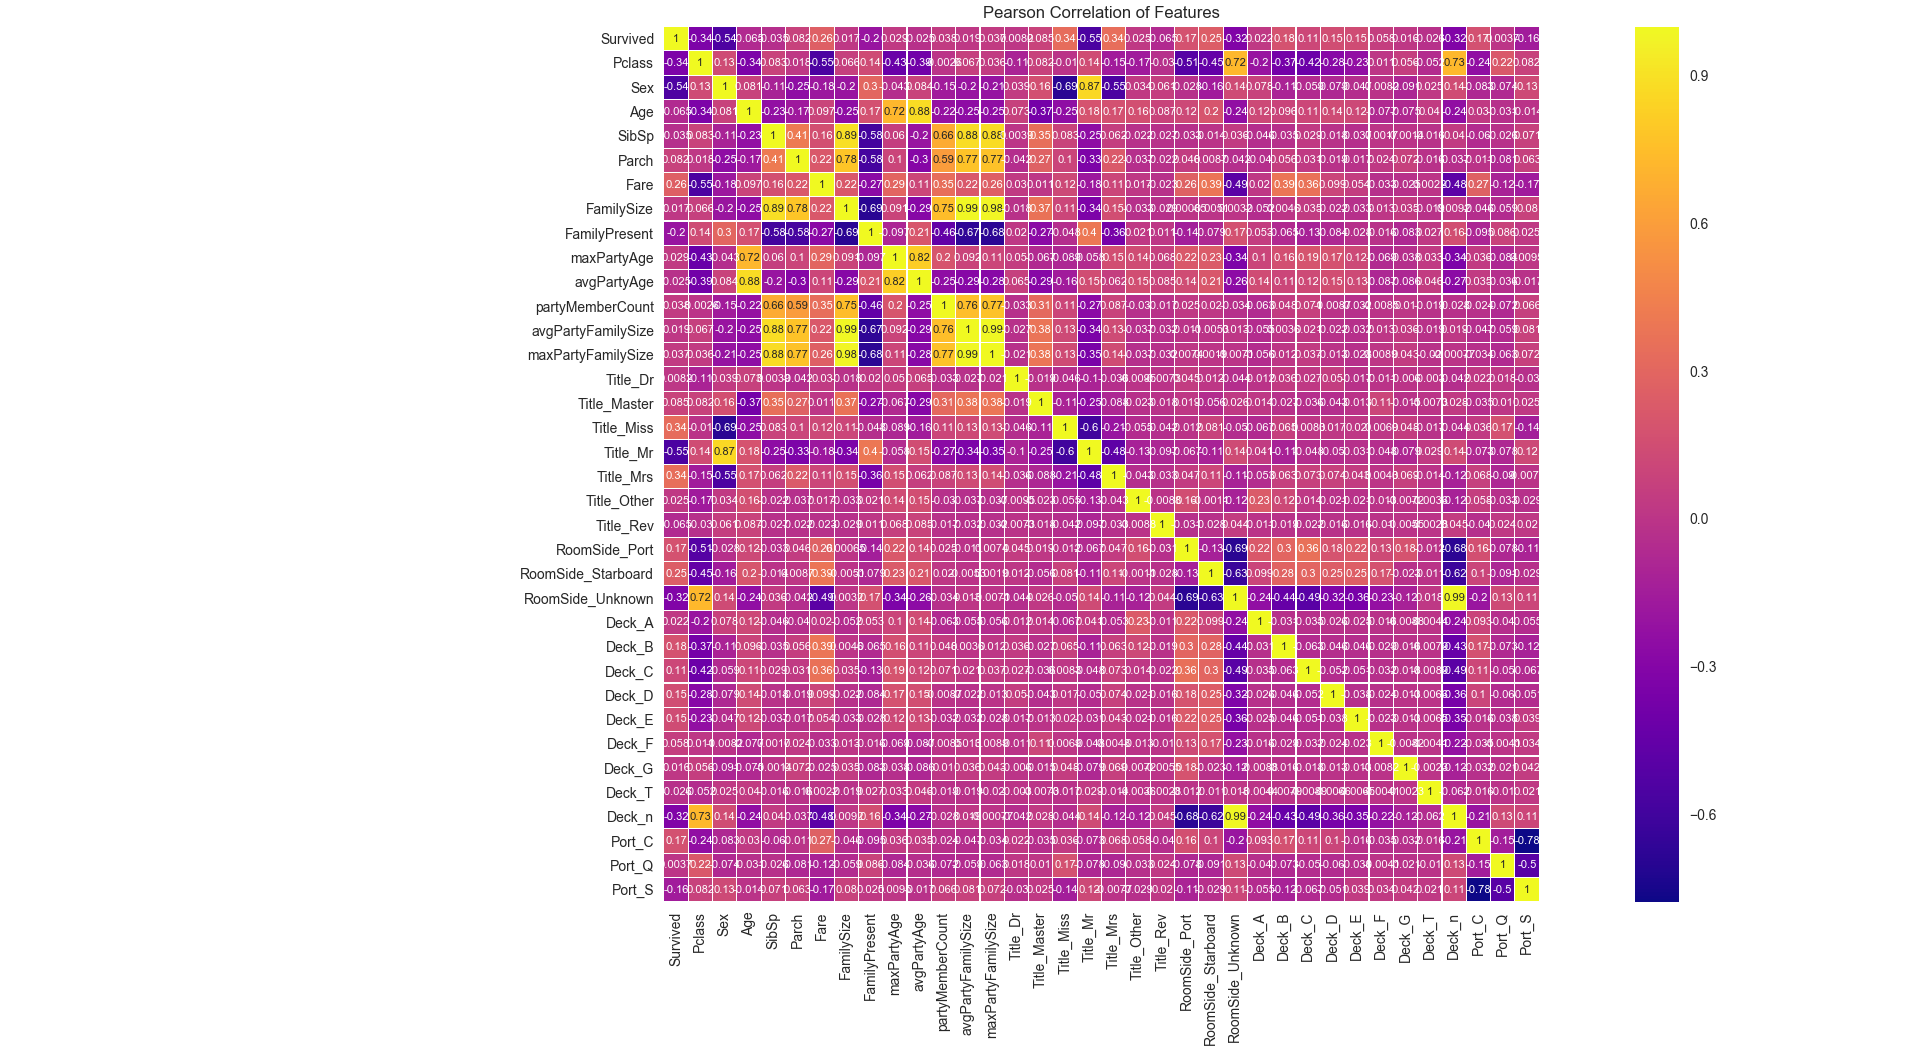
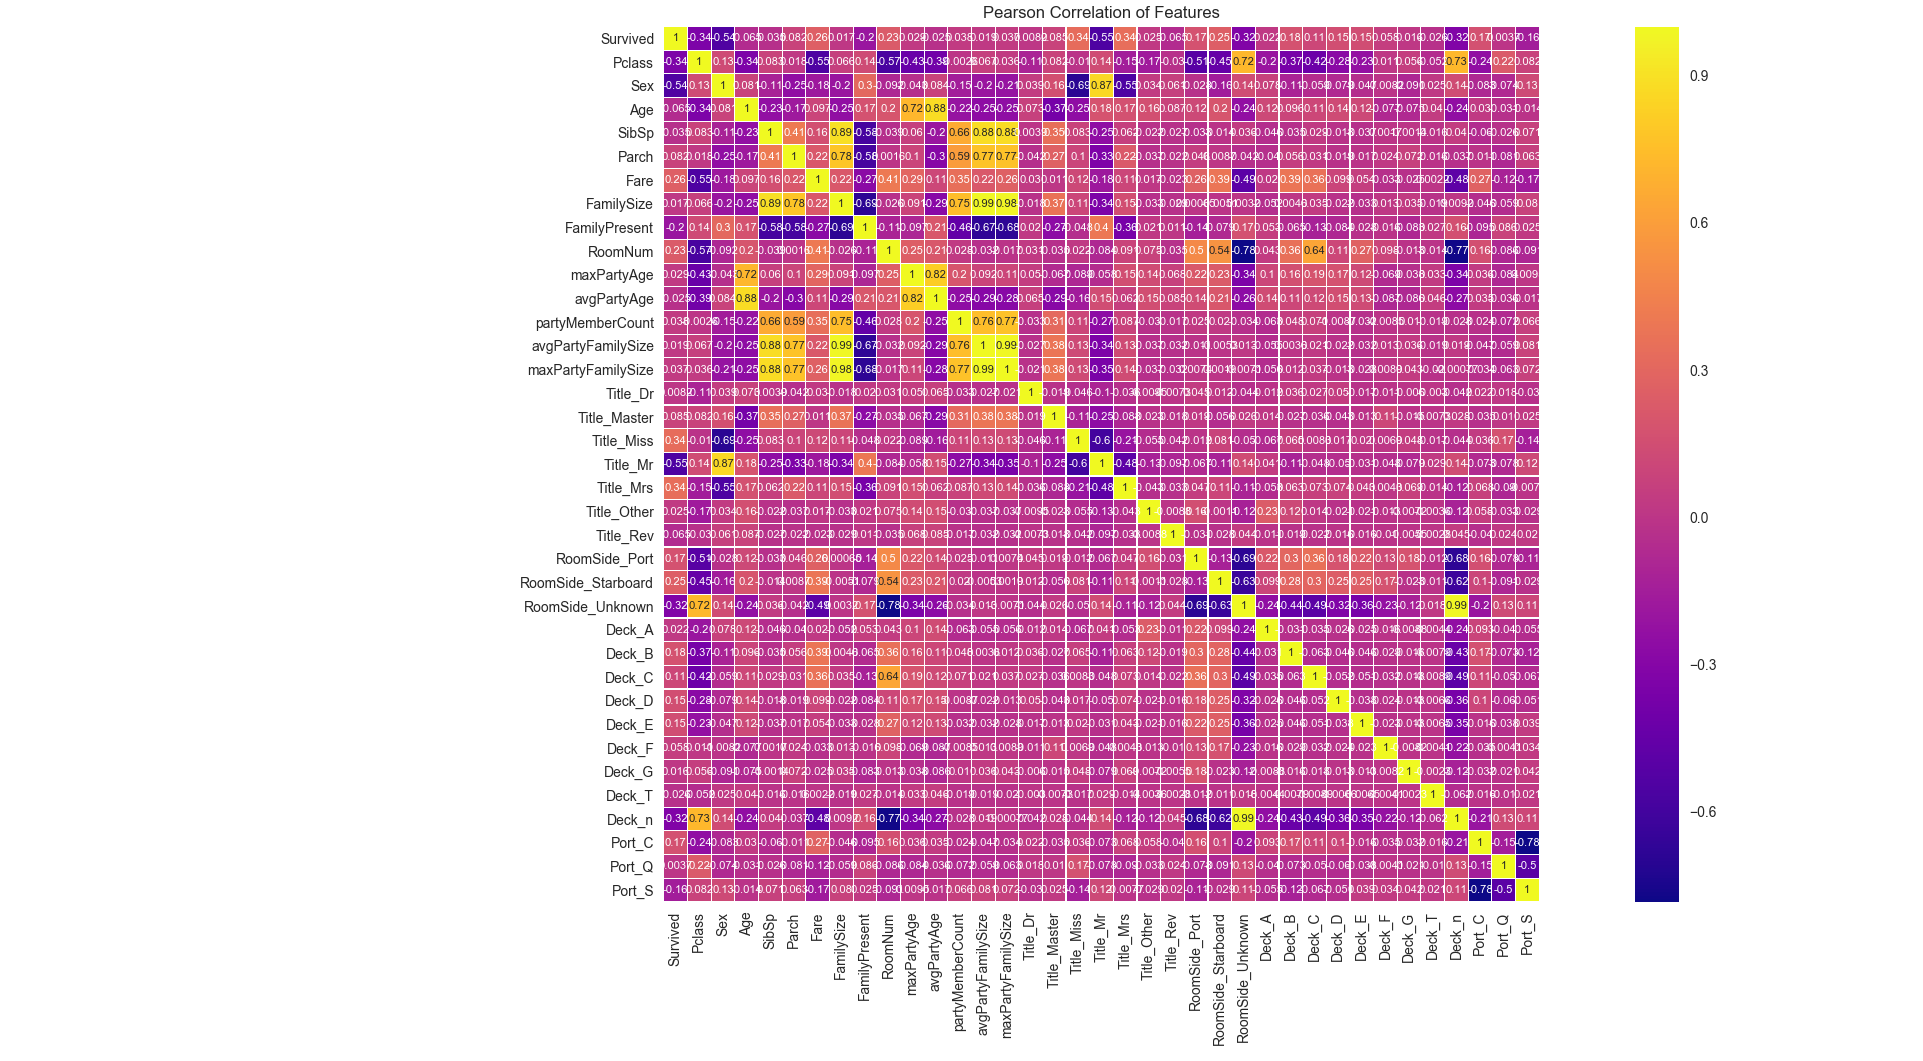
Fixed cabin number, started adding classifiers

Changed region(s): [[0.2496, 0.0, 0.8112, 0.9953]]

diff --git a/Kaggle-Titanic/ETL/DataLoader.py b/Kaggle-Titanic/ETL/DataLoader.py
@@ -46,6 +46,13 @@ class DataLoader:
 
         return df
 
+    def _fillNACabin(self, df):
+
+        df["RoomNum"] = df["RoomNum"].astype(int)
+        df["RoomNum"] = df["RoomNum"].replace(0, df["RoomNum"].median())
+
+        return df
+
     def _initialiseRows(self, dataframe):
 
 
@@ -72,6 +79,9 @@ class DataLoader:
         if not "Port" in dataframe.columns:
             dataframe["Port"] = dataframe["Embarked"]
 
+        if not "RoomNum" in dataframe.columns:
+            dataframe["RoomNum"] = 0
+
         return dataframe
 
 
@@ -92,16 +102,16 @@ class DataLoader:
         if row["Cabin"] != "" and row["Cabin"] is not None:
             cabinString = row["Cabin"]
 
-            if cabinString[:1].isalpha():
-                row["Deck"] = cabinString[:1]
+            if cabinString[0].isalpha():
+                row["Deck"] = cabinString[0]
 
             number = re.findall(r'^\D*(\d+)', cabinString)
 
-
             if not self._checkEmptyList(number):
+
                 number = int(number[0])
 
-                row["Cabin"] = number
+                row["RoomNum"] = number
 
                 if number % 2 == 0:
                     row["RoomSide"] = "Port"
@@ -111,7 +121,6 @@ class DataLoader:
         # use excludedTitles to replace any Titles with a freq < 5 with 'Other'
         if self.excluded_titles.loc[row["Title"]] == True:
             row["Title"] = "Other"
-
 
         return row
 
@@ -143,7 +152,7 @@ class DataLoader:
 
         return dataframe
 
-    def encodeCategroicalVariables(self, dataframe):
+    def encodeCategoricalVariables(self, dataframe):
 
         cols_to_transform = ["Title", "RoomSide", "Deck", "Port"]
         dataframe = pd.get_dummies(dataframe, columns=cols_to_transform)
@@ -173,9 +182,11 @@ class DataLoader:
         df = self.getPartyStats(df)
         print(df['Title'].value_counts())
 
-        df = self.encodeCategroicalVariables(df)
+        df = self.encodeCategoricalVariables(df)
 
-        df = df.drop(["Name", "Ticket", "PassengerId", "Cabin", "Embarked"], axis=1)
+        df = df.drop(["Name", "Ticket", "PassengerId", "Embarked", "Cabin"], axis=1)
+
+        df = self._fillNACabin(df)
 
         print("---- Post Feature Engineering exploration: ----")
 

diff --git a/Kaggle-Titanic/Ensemble/ClassifierEnsemble.py b/Kaggle-Titanic/Ensemble/ClassifierEnsemble.py
@@ -1,0 +1,69 @@
+
+import sklearn.pipeline as MLpipeline
+
+import sklearn.ensemble as ensemble
+import sklearn.linear_model as linear_model
+import sklearn.naive_bayes as naive_bayes
+import sklearn.neighbors as neighbors
+import sklearn.svm as svm
+import sklearn.tree as tree
+import sklearn.discriminant_analysis as discriminant_analysis
+import sklearn.gaussian_process as gaussian_process
+
+class ClassifierEnsemble:
+
+
+    # https://www.kaggle.com/ldfreeman3/a-data-science-framework-to-achieve-99-accuracy
+    MLA = [
+        # Ensemble Methods
+        ensemble.AdaBoostClassifier(),
+        ensemble.BaggingClassifier(),
+        ensemble.ExtraTreesClassifier(),
+        ensemble.GradientBoostingClassifier(),
+        ensemble.RandomForestClassifier(),
+
+        # Gaussian Processes
+        gaussian_process.GaussianProcessClassifier(),
+
+        # GLM
+        linear_model.LogisticRegressionCV(),
+        linear_model.PassiveAggressiveClassifier(),
+        linear_model.RidgeClassifierCV(),
+        linear_model.SGDClassifier(),
+        linear_model.Perceptron(),
+
+        # Navies Bayes
+        naive_bayes.BernoulliNB(),
+        naive_bayes.GaussianNB(),
+
+        # Nearest Neighbor
+        neighbors.KNeighborsClassifier(),
+
+        # SVM
+        svm.SVC(probability=True),
+        svm.NuSVC(probability=True),
+        svm.LinearSVC(),
+
+        # Trees
+        tree.DecisionTreeClassifier(),
+        tree.ExtraTreeClassifier(),
+
+        # Discriminant Analysis
+        discriminant_analysis.LinearDiscriminantAnalysis(),
+        discriminant_analysis.QuadraticDiscriminantAnalysis(),
+
+    ]
+
+    # GridSearchCV parameter values will go in here, one set for each classifier
+    ParameterCandidates = [
+
+    ]
+
+def trainEnsemble(self, trainingDataframe, trainingLabels):
+
+    for algo in self.MLA:
+
+
+
+    return None
+
